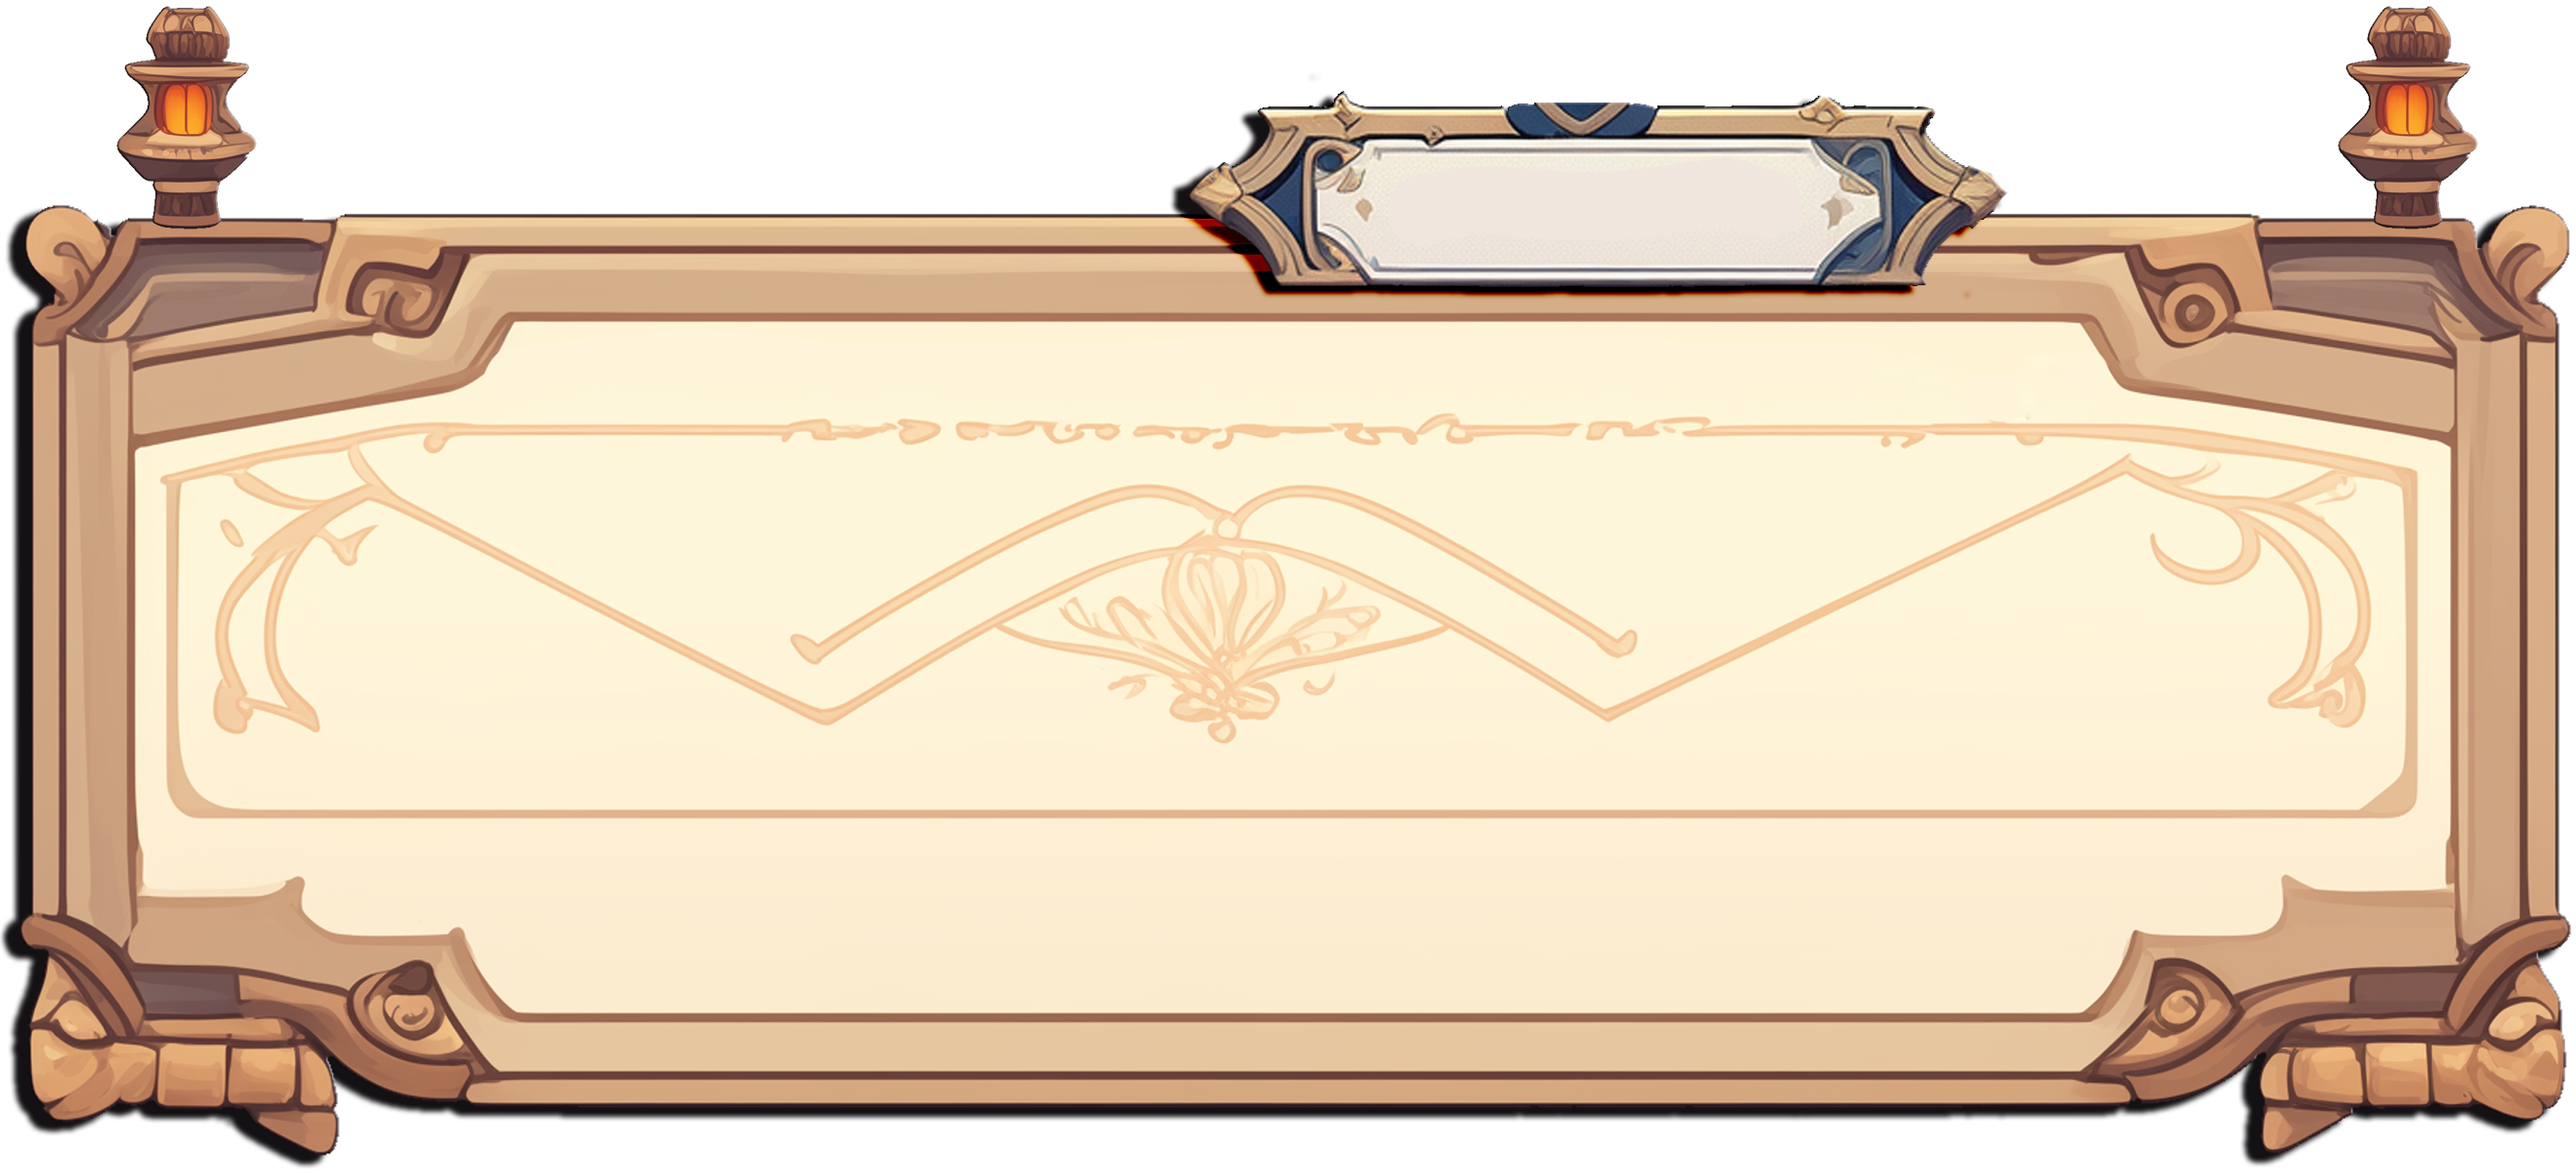
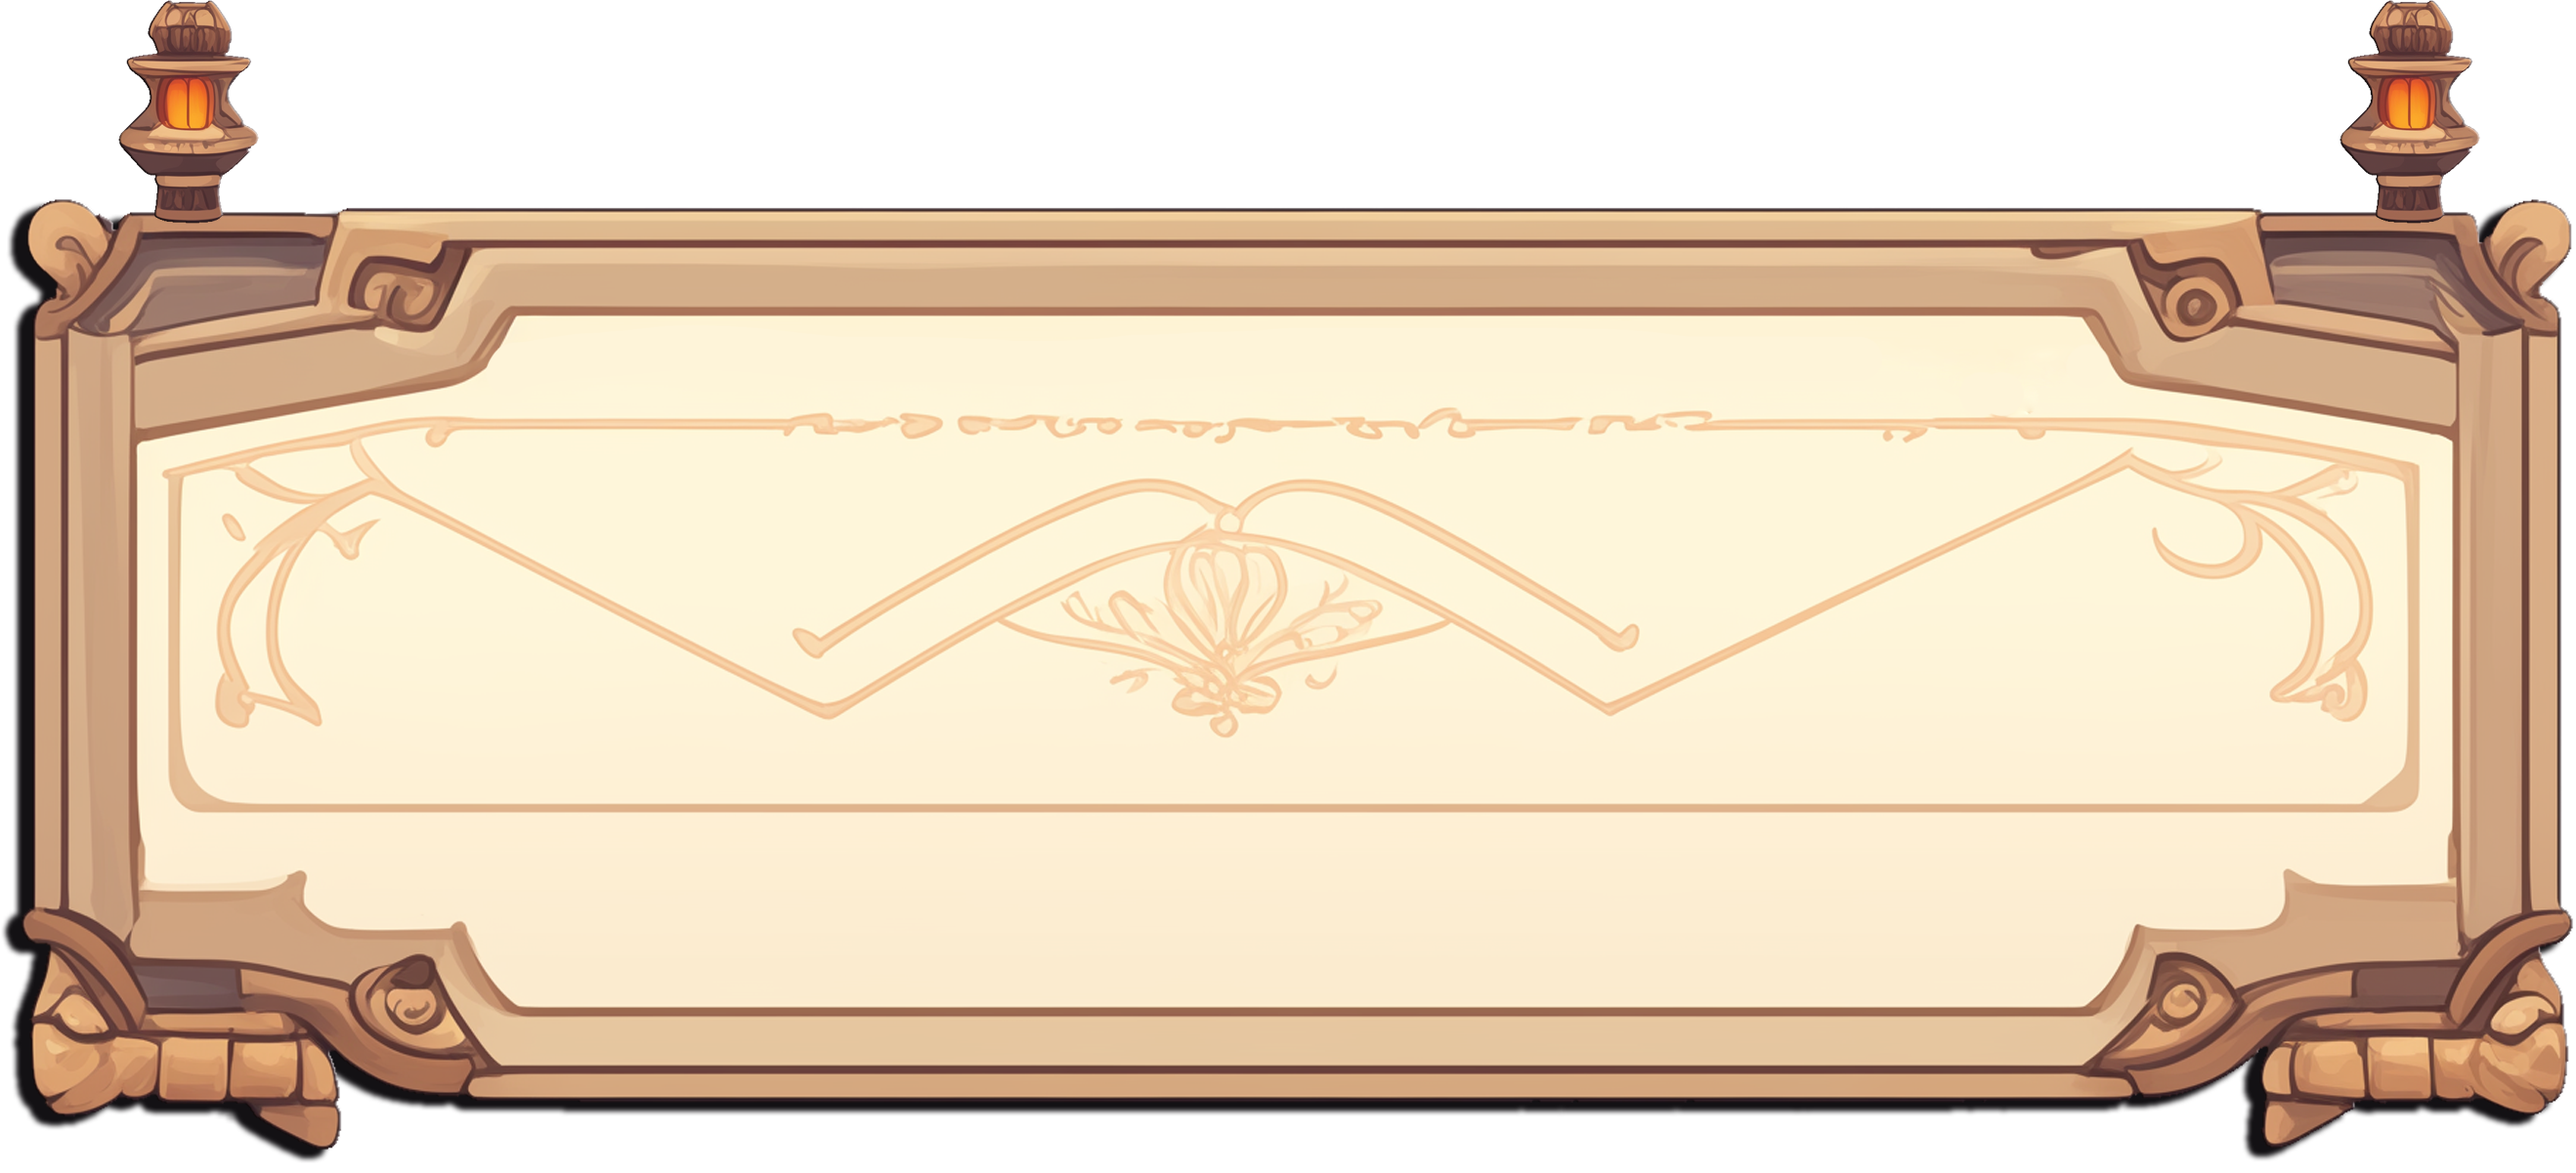
Página de selección de personaje de pruebas terminada.

diff --git a/src/app/pages/pruebas/hoja-personaje-selec-prueba/hoja-personaje-selec-prueba.page.scss b/src/app/pages/pruebas/hoja-personaje-selec-prueba/hoja-personaje-selec-prueba.page.scss
@@ -1,0 +1,212 @@
+@font-face {
+    font-family: 'Sketsa';
+    src: url('../../../../assets/fonts/Sketsa.ttf');
+  }
+
+@font-face {
+    font-family: 'Poor-Rich';
+    src: url('../../../../assets/fonts/Poor-Rich.TTF');
+}
+
+@font-face {
+    font-family: 'Hidayatullah';
+    src: url('../../../../assets/fonts/Hidayatullah.ttf');
+}
+
+.fondo {
+    background: url('../../../../assets/img/Fondo_Hoja_Pj.jpg');
+    background-size: cover;
+
+    display: flex;
+    flex-direction: column;
+    align-items: center;
+    justify-content: center;
+
+    width: 100vw;
+    height: 100vh;
+
+    overflow: hidden;
+}
+
+.hoja-personaje {
+    background: url('../../../../assets/img/Panel_Personaje.png');
+    background-size: contain;
+    background-position: center;
+    background-repeat: no-repeat;
+
+    width: 92.5%;
+    height: 92.5%;
+
+    transform: translateX(2px);
+
+    display: flex;
+    flex-direction: row;
+    align-items: start;
+    justify-content: start;
+
+    padding-left: 7%;
+    padding-top: 5%;
+
+    position: relative;
+
+    // column-gap: 5%;
+
+    .estadisticas {
+        display: flex;
+        flex-direction: column;
+        align-items: center;
+        gap: 8px;
+
+        padding-top: 12%;
+
+        color: #e5bf5a;
+        font-family: 'Hidayatullah', sans-serif;
+        font-size: 1.6rem;
+        text-shadow: 0px 2px 0px black;
+
+        height: 100%;
+        width: 45px;
+
+        z-index: 1;
+
+        .estadistica {
+            position: relative;
+
+            background: url('../../../../assets/img/Panel_Atributo.png');
+            background-size: cover;
+
+            height: 45px;
+            width: 50px;
+
+            display: flex;
+            flex-direction: row;
+
+            align-items: end;
+            justify-items: end;
+        }
+
+        .valor {
+            position: absolute;
+            top: 32%;
+            left: 10%;
+        }
+
+        .icono {
+            position: absolute;
+            top: 38%;
+            left: 49%;
+            transform: translate(-50%, -50%);
+            width: 35px;
+            height: auto;
+        }
+    }
+    
+    .foto {
+        // width: 275px;
+        width: 55%;
+        height: auto;
+        max-height: 100%;
+        object-fit: cover;
+        transform: translateX(-23%);
+
+        z-index: 0;
+
+        // margin-left: 6%;
+    }
+
+    .nombre {
+        background: url('../../../../assets/img/Recuadro_Nombre_Personaje.png');
+        background-size: cover;
+        width: 40%;
+        height: 20%;
+
+        font-family: 'Sketsa', sans-serif;
+        color: #e5bf5a;
+        font-size: 2rem;
+        text-shadow: 0px 1px 0px black;
+        text-align: center;
+
+        display: flex;
+        justify-content: center;
+        align-items: center;
+        padding-top: 2.3%;
+
+        position: absolute;
+        top: 10%;
+        left: 43%;
+    }
+
+    .body {
+        position: absolute;
+        top: 26%;
+        left: 40%;
+
+        display: flex;
+        flex-direction: column;
+        row-gap: 4.5%;
+        // padding-top: 6%;
+
+        width: 49%;
+
+        .descripcion {
+            font-family: 'Poor-Rich', sans-serif;
+            color: black;
+            text-align: center;
+            justify-content: center;
+            // font-size: 1.1rem;
+            font-size: clamp(16px, 18px, 20px); // Seguramente es mejor hacerlo con vh/vw para ajustar el tamaño mejor en funcion el tamaño del movil
+            margin-top: 5%;
+            
+            .cat {
+                margin-top: 1.5%;
+            }
+        }
+    }
+
+    .botones {
+        display: flex;
+        flex-direction: row;
+        // justify-content: center;
+        align-items: end;
+        gap: 0.5rem;
+
+        width: 40%;
+
+        position: absolute;
+        top: 79%;
+        left: 43%;
+
+        .seleccionar {
+            background: url('../../../../assets/img/Boton.png');
+            background-size: cover;
+            
+            padding-top: 1rem;
+            font-family: 'Sketsa', sans-serif;
+            color: #e5bf5a;
+            font-size: 1.6rem;
+            text-shadow: 0px 1px 0px black;
+            text-align: center;
+            
+            // width: 70%;
+            // height: 58px;
+            width: 255px;
+            height: 55px;
+            
+            align-self: center;
+            // transform: translateX(4%);
+            // transform: translateY(-8px);
+            // margin-top: 5%;
+            // position: absolute;
+            // top: 86%;
+            // left: 45%;
+        }
+        
+        .volver {
+            background: url('../../../../assets/icon/Volver.png');
+            background-size: cover;
+
+            width: 40px;
+            height: 40px;
+        }
+    }
+}

diff --git a/src/app/pages/pruebas/hoja-personaje-selec-prueba/hoja-personaje-selec-prueba.page.ts b/src/app/pages/pruebas/hoja-personaje-selec-prueba/hoja-personaje-selec-prueba.page.ts
@@ -1,0 +1,69 @@
+import { Component, Input, OnInit } from '@angular/core';
+import { CommonModule } from '@angular/common';
+import { FormsModule } from '@angular/forms';
+import { IonContent, IonHeader, IonTitle, IonToolbar } from '@ionic/angular/standalone';
+import { Personaje } from 'src/app/interfaces/personaje';
+import { ActivatedRoute, Router } from '@angular/router';
+import { PersonajesService } from 'src/app/services/personajes/personajes.service';
+import { JugadoresService } from 'src/app/services/jugadores/jugadores.service';
+import { Jugador } from 'src/app/interfaces/jugador';
+import { SqliteService } from 'src/app/services/sqlite.service';
+import { PartidaService } from 'src/app/services/partida/partida.service';
+
+@Component({
+  selector: 'app-hoja-personaje-selec-prueba',
+  templateUrl: './hoja-personaje-selec-prueba.page.html',
+  styleUrls: ['./hoja-personaje-selec-prueba.page.scss'],
+  standalone: true,
+  imports: [
+    IonContent, 
+    IonHeader, 
+    IonTitle, 
+    IonToolbar, 
+    CommonModule, 
+    FormsModule
+  ]
+})
+export class HojaPersonajeSelecPagePrueba implements OnInit {
+  // @Input() personaje!: Personaje;
+  // jugadorId: number = parseInt(this.route.snapshot.paramMap.get('id-jugador')!, 10);
+  // personajeId: number = parseInt(this.route.snapshot.paramMap.get('id-pj')!, 10);
+  personaje: Personaje | null = null;
+  // jugadores: Jugador[] = [];
+  // jugadores = this.jugadoresService.getJugadores();
+  
+  constructor(
+    private router: Router,
+    private personajesService: PersonajesService,
+    private jugadoresService: JugadoresService,
+    private partidaService: PartidaService,
+    private route: ActivatedRoute
+  ) { }
+
+  async ngOnInit() {
+    // try {
+    //   this.personaje = await this.personajesService.getPersonajePorID(this.personajeId);
+    //   this.jugadores = await this.jugadoresService.getJugadores();
+    //   // console.log(jugadores);
+    // } catch (error) {
+    //   console.error('Error al mostrar el personaje:', error);
+    // }
+  }
+  
+  async seleccionar() {
+  //   console.log('Jugador ', this.jugadorId);
+  //   console.log('Cantidad de jugadores: ', this.jugadores);
+  //   await this.personajesService.seleccionarPersonaje(this.jugadorId, this.personajeId)
+  //   if (this.jugadorId < this.jugadores().length) {
+  //     this.router.navigate(['/nombre-jugador', this.jugadorId + 1])
+  //   } else {
+  //     console.log('No hay más jugadores');
+  //     this.partidaService.empezarPartida();
+  //     this.router.navigate(['/comprobar-datos']);
+  //   }
+  }
+
+  volver() {
+    // this.router.navigate(['/seleccion-pj', this.jugadorId]);
+  }
+}

diff --git a/src/app/pages/pruebas/hoja-personaje-selec-prueba/hoja-personaje-selec-prueba.page.html b/src/app/pages/pruebas/hoja-personaje-selec-prueba/hoja-personaje-selec-prueba.page.html
@@ -1,0 +1,56 @@
+<!-- <ion-header [translucent]="true">
+  <ion-toolbar>
+    <ion-title>hoja-personaje</ion-title>
+  </ion-toolbar>
+</ion-header> -->
+
+<ion-content [fullscreen]="true">
+  <!-- <ion-header collapse="condense">
+    <ion-toolbar>
+      <ion-title size="large">hoja-personaje</ion-title>
+    </ion-toolbar>
+  </ion-header> -->
+  <div class="fondo">
+    <div class="hoja-personaje">
+      <div class="estadisticas">
+        <div class="estadistica">
+          <img src="../../../../assets/icon/Atributo_Fisico.png" alt="atr_fisico" class="icono">
+          <div class="valor">1</div>
+        </div>
+        <div class="estadistica">
+          <img src="../../../../assets/icon/Atributo_Mental.png" alt="atr_fisico" class="icono">
+          <div class="valor">2</div>
+        </div>
+        <div class="estadistica">
+          <img src="../../../../assets/icon/Atributo_Social.png" alt="atr_fisico" class="icono">
+          <div class="valor">3</div>
+        </div>
+        <div class="estadistica">
+          <img src="../../../../assets/icon/Atributo_Suerte.png" alt="atr_fisico" class="icono">
+          <div class="valor">4</div>
+        </div>
+      </div>
+      <div class="foto">
+        <img src="../../../../assets/fotos/Daria.png" alt="foto_pj" class="foto_pj">
+        <!-- <img src="{{personaje?.foto}}" alt="foto_{{personaje?.nombre}}"> -->
+      </div>
+      <div class="nombre">Daria Samira</div>
+      <!-- <div class="nombre">{{personaje?.nombre}}</div> -->
+      <div class="body">
+        <div class="descripcion">
+          <div class="cat profesion">Profesión: Mago.</div>
+          <div class="cat especialidades">Especialidad: Alid, Brujo de Arena, Maestro del Equilibrium, Cabal.</div>
+          <div class="cat cartas-iniciales">Cartas Iniciales: Canalizar, Deducir, 1 al azar.</div>
+          <div class="cat clase-social">Clase Social: Korra.</div>
+          <div class="cat localidad-inicial">Localidad Inicial: Valora.</div>
+          <div class="cat trasfondo-inicial">Trasfondo Inicial: Accidente con Gei, Cita con Leila, Misión de Investigación.</div>
+        </div>
+      </div>
+      <div class="botones">
+        <div class="seleccionar" (click)="seleccionar()">Seleccionar</div>
+        <button class="volver" (click)="volver()"></button>
+      </div>
+    </div>
+  </div>
+  
+</ion-content>

diff --git a/src/app/pages/pruebas/hoja-personaje-selec-prueba/hoja-personaje-selec-prueba.page.spec.ts b/src/app/pages/pruebas/hoja-personaje-selec-prueba/hoja-personaje-selec-prueba.page.spec.ts
@@ -1,0 +1,17 @@
+import { ComponentFixture, TestBed } from '@angular/core/testing';
+import { HojaPersonajeSelecPagePrueba } from './hoja-personaje-selec-prueba.page';
+
+describe('HojaPersonajePage', () => {
+  let component: HojaPersonajeSelecPagePrueba;
+  let fixture: ComponentFixture<HojaPersonajeSelecPagePrueba>;
+
+  beforeEach(() => {
+    fixture = TestBed.createComponent(HojaPersonajeSelecPagePrueba);
+    component = fixture.componentInstance;
+    fixture.detectChanges();
+  });
+
+  it('should create', () => {
+    expect(component).toBeTruthy();
+  });
+});

diff --git a/src/app/app.routes.ts b/src/app/app.routes.ts
@@ -27,6 +27,10 @@ export const routes: Routes = [
     loadComponent: () => import('./pages/hoja-personaje-selec/hoja-personaje-selec.page').then( m => m.HojaPersonajeSelecPage)
   },
   {
+    path: 'hoja-personaje-selec-prueba',
+    loadComponent: () => import('./pages/pruebas/hoja-personaje-selec-prueba/hoja-personaje-selec-prueba.page').then( m => m.HojaPersonajeSelecPagePrueba)
+  },
+  {
     path: 'comprobar-datos',
     loadComponent: () => import('./pages/comprobar-datos/comprobar-datos.page').then( m => m.ComprobarDatosPage)
   },

diff --git a/src/app/pages/hoja-personaje-selec/hoja-personaje-selec.page.html b/src/app/pages/hoja-personaje-selec/hoja-personaje-selec.page.html
@@ -31,12 +31,10 @@
           <div class="cat localidad-inicial">Localidad Inicial: Valora.</div>
           <div class="cat trasfondo-inicial">Trasfondo Inicial: Accidente con Gei, Cita con Leila, Misión de Investigación.</div>
         </div>
-        <!-- <button class="seleccionar">Seleccionar</button> -->
       </div>
       <div class="seleccionar" (click)="seleccionar()">Seleccionar</div>
     </div>
     <button class="cerrar" (click)="cerrar()"></button>
-    <!-- <div class="cerrar"></div> -->
   </div>
   
 </ion-content>

diff --git a/src/app/pages/hoja-personaje-selec/hoja-personaje-selec.page.scss b/src/app/pages/hoja-personaje-selec/hoja-personaje-selec.page.scss
@@ -57,6 +57,8 @@
         font-size: 1.4rem;
         text-shadow: 0px 2px 0px black;
 
+        background: url('../../../assets/img/Atributos.png');
+
         height: 100%;
 
         // display: flex;

diff --git a/src/app/home/home.page.scss b/src/app/home/home.page.scss
@@ -29,7 +29,7 @@
     justify-content: center;
     align-items: center;
     gap: 0.5rem;
-    width: 55%;
+    width: 60%;
     // width: 45%;
     // padding-bottom: 1.5%;
     
